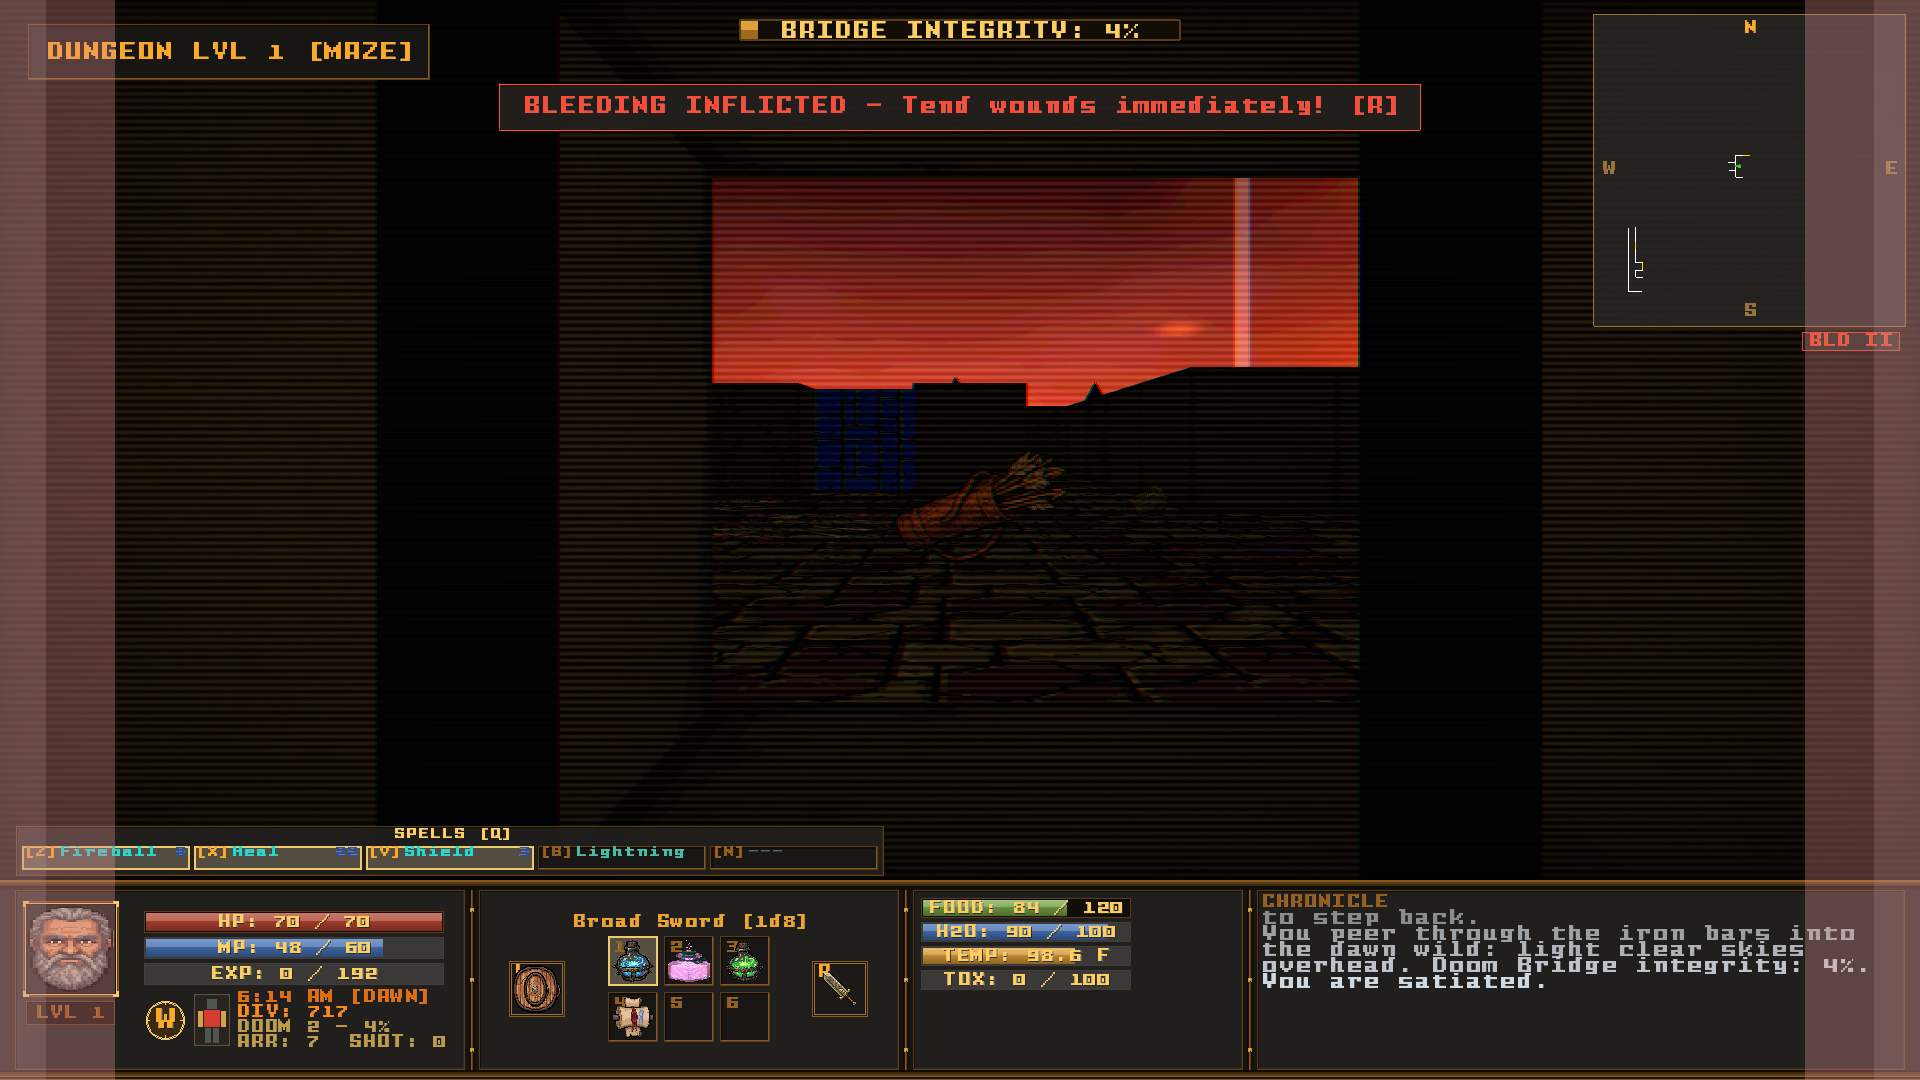
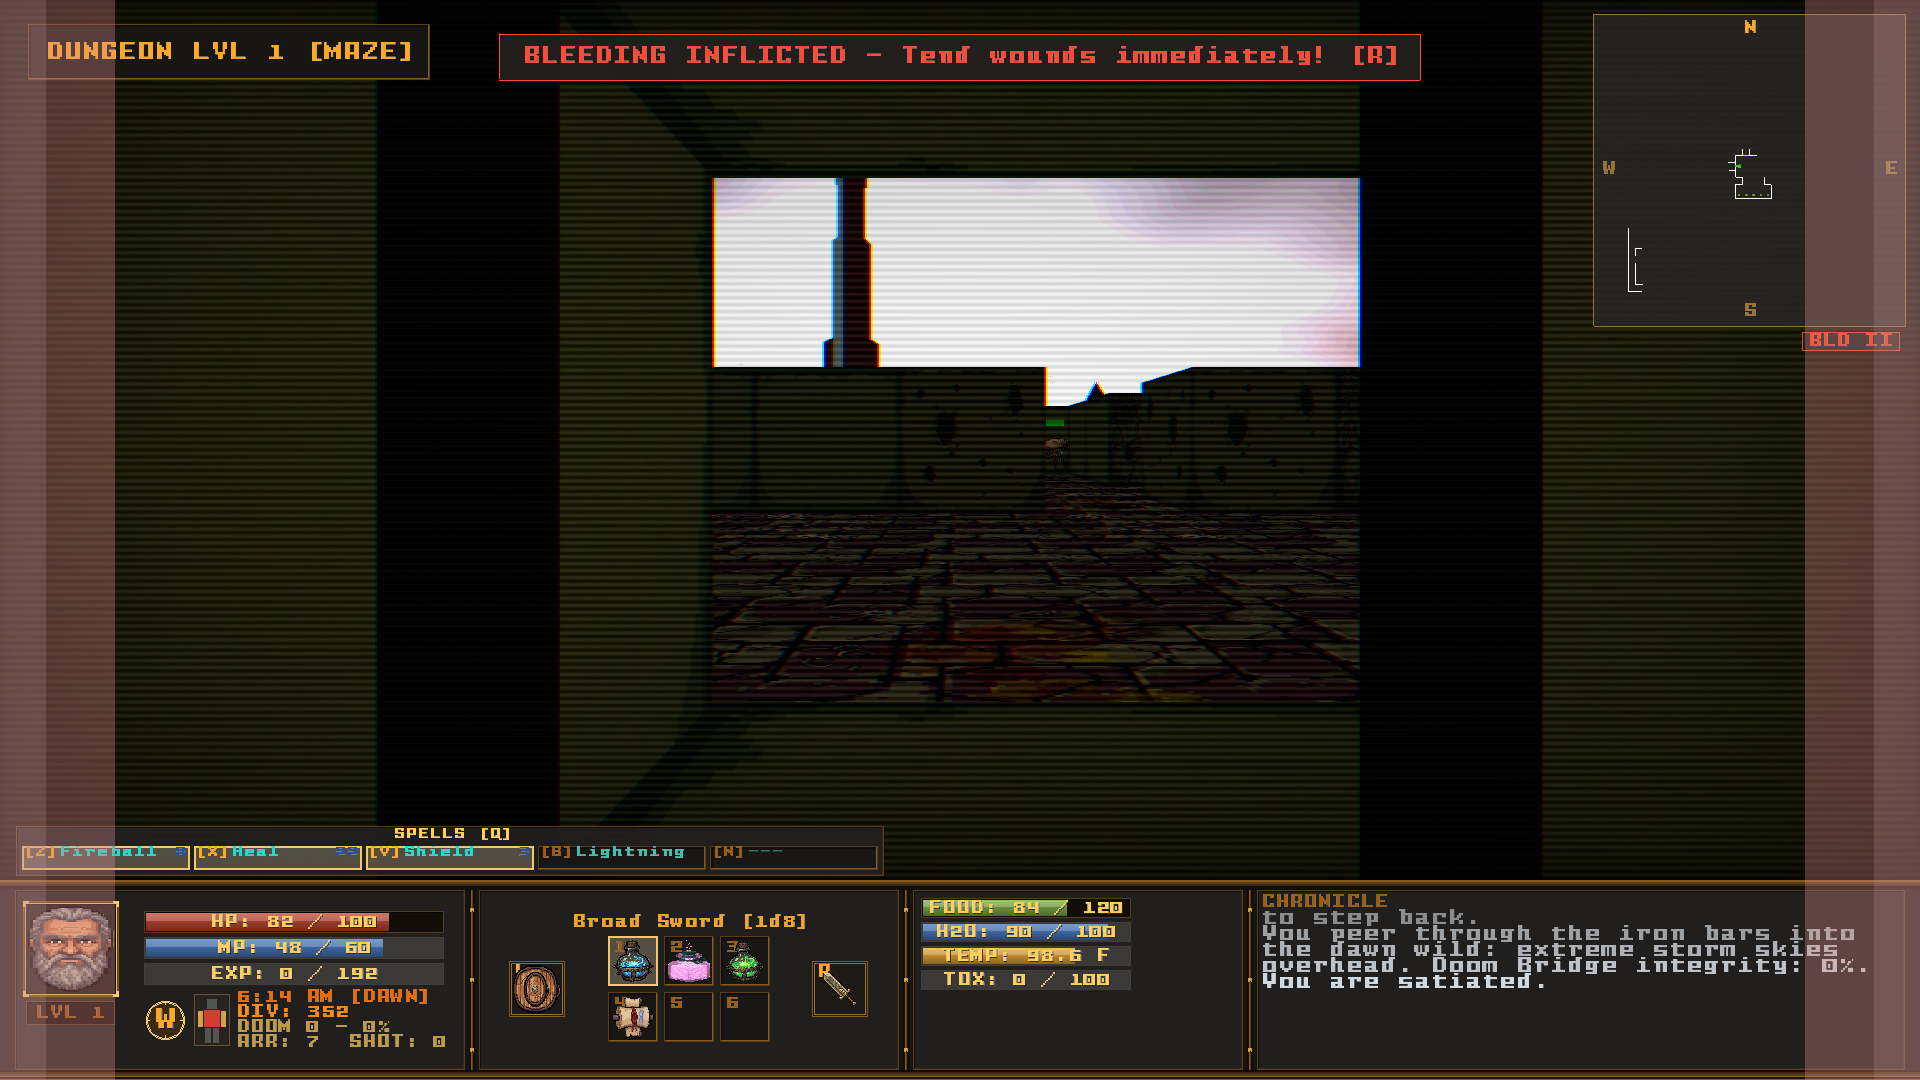
fix(sky): the sky turns with the world camera, so the castle stays put
The sky had its own camera, faced along the player's heading with a level
horizon. Looking about at a barred window (and the death cinematic's fall)
turned the world camera but not the sky's, so Castle Tarmin and the
horizon rode along on the screen. The world renderer now hands the sky its
camera's position, direction and up vector each frame; captures that fill
the sky state by hand keep the level view.

A new capture (24f) looks up and to the left from the window.

diff --git a/core/src/main/java/com/bpm/minotaur/rendering/Skybox3DRenderer.java b/core/src/main/java/com/bpm/minotaur/rendering/Skybox3DRenderer.java
@@ -291,10 +291,24 @@ public class Skybox3DRenderer {
                 ? worldManager.getCurrentPlayerChunkId()
                 : new com.badlogic.gdx.math.GridPoint2(0, 0);
 
-        worldSkyState.camX = player.getPosition().x * PARALLAX_SCALE;
-        worldSkyState.camZ = -player.getPosition().y * PARALLAX_SCALE;
-        worldSkyState.forwardX = player.getDirectionVector().x;
-        worldSkyState.forwardZ = -player.getDirectionVector().y; // Maze Y -> World -Z
+        if (viewAligned) {
+            // The world camera looks where the player does not always: up at a window, down in
+            // a fall. The sky must turn with it, or the castle rides along on the screen.
+            worldSkyState.camX = viewPosition.x * PARALLAX_SCALE;
+            worldSkyState.camZ = viewPosition.z * PARALLAX_SCALE;
+            worldSkyState.forwardX = viewDirection.x;
+            worldSkyState.forwardY = viewDirection.y;
+            worldSkyState.forwardZ = viewDirection.z;
+            worldSkyState.up.set(viewUp);
+            viewAligned = false;
+        } else {
+            worldSkyState.camX = player.getPosition().x * PARALLAX_SCALE;
+            worldSkyState.camZ = -player.getPosition().y * PARALLAX_SCALE;
+            worldSkyState.forwardX = player.getDirectionVector().x;
+            worldSkyState.forwardY = 0f;
+            worldSkyState.forwardZ = -player.getDirectionVector().y; // Maze Y -> World -Z
+            worldSkyState.up.set(Vector3.Y);
+        }
         worldSkyState.dayNight = (worldManager != null) ? worldManager.getDayNightManager() : null;
         worldSkyState.weather = (weather != null) ? weather.getCurrentWeather() : WeatherType.CLEAR;
         worldSkyState.cloudCover = (weather != null) ? weather.getCloudCover() : 0f;
@@ -350,7 +364,11 @@ public class Skybox3DRenderer {
         public float camX;
         public float camZ;
         public float forwardX;
+        /** Up or down component of the view; 0 keeps the horizon level. */
+        public float forwardY;
         public float forwardZ;
+        /** The view's up vector, so the sky rolls with the world camera. */
+        public final Vector3 up = new Vector3(Vector3.Y);
         public DayNightManager dayNight;
         public WeatherType weather = WeatherType.CLEAR;
         public float cloudCover;
@@ -431,8 +449,8 @@ public class Skybox3DRenderer {
 
         // 1. Camera Alignment (Direction tracks player view continuous vector)
         camera.position.set(camX, 0.5f, camZ);
-        camera.direction.set(fwdX, 0f, fwdZ).nor();
-        camera.up.set(Vector3.Y);
+        camera.direction.set(fwdX, state.forwardY, fwdZ).nor();
+        camera.up.set(state.up);
         camera.update();
 
         // Dome tracks camera position so player is always at center of celestial hemisphere
@@ -560,6 +578,23 @@ public class Skybox3DRenderer {
                     .rotate(0f, 1f, 0f, yaw + 180f)
                     .scale(1.875f, 1.875f, 1.875f);
         }
+    }
+
+    private boolean viewAligned;
+    private final Vector3 viewPosition = new Vector3();
+    private final Vector3 viewDirection = new Vector3();
+    private final Vector3 viewUp = new Vector3();
+
+    /**
+     * Points the sky's camera the way the world camera points, for the next render. Without
+     * it the sky faces the player's heading with a level horizon, which is wrong whenever the
+     * world camera looks elsewhere.
+     */
+    public void alignTo(Vector3 position, Vector3 direction, Vector3 up) {
+        viewPosition.set(position);
+        viewDirection.set(direction);
+        viewUp.set(up);
+        viewAligned = true;
     }
 
     /**

diff --git a/core/src/main/java/com/bpm/minotaur/screens/UXScreenCaptureScreen.java b/core/src/main/java/com/bpm/minotaur/screens/UXScreenCaptureScreen.java
@@ -427,6 +427,21 @@ public class UXScreenCaptureScreen extends BaseScreen {
                     () -> Gdx.input.getInputProcessor().keyDown(com.badlogic.gdx.Input.Keys.ESCAPE));
             Gdx.input.getInputProcessor().keyDown(com.badlogic.gdx.Input.Keys.E);
         }));
+        // Looking up and to the left from the bars: the sky and the castle must turn with the view.
+        tasks.add(new CaptureTask("24f_window_look_up", "Looking up from the shelter window", () -> {
+            for (java.util.Map.Entry<com.badlogic.gdx.math.GridPoint2, Object> e : sharedMaze.getGameObjects().entrySet()) {
+                if (e.getValue() instanceof com.bpm.minotaur.gamedata.Window) {
+                    com.badlogic.gdx.math.GridPoint2 w = e.getKey();
+                    sharedPlayer.setPosition(w.x + 1.5f, w.y + 0.5f);
+                    sharedPlayer.setFacing(com.bpm.minotaur.gamedata.Direction.WEST);
+                    break;
+                }
+            }
+            setSubScreen(sharedGameScreen,
+                    () -> Gdx.input.getInputProcessor().keyDown(com.badlogic.gdx.Input.Keys.ESCAPE));
+            Gdx.input.getInputProcessor().keyDown(com.badlogic.gdx.Input.Keys.E);
+            sharedGameScreen.turnWindowLook(25f, 30f);
+        }));
         // The same window seen from the room, a step back from it.
         tasks.add(new CaptureTask("24e_window_room", "The shelter window from inside", () -> {
             for (java.util.Map.Entry<com.badlogic.gdx.math.GridPoint2, Object> e : sharedMaze.getGameObjects().entrySet()) {

diff --git a/core/src/main/java/com/bpm/minotaur/rendering/World3DRenderer.java b/core/src/main/java/com/bpm/minotaur/rendering/World3DRenderer.java
@@ -671,6 +671,7 @@ public class World3DRenderer implements Disposable {
         boolean canRender3DSky = (currentLevel == 1) && (!isIndoors || isInsideHome);
         if (canRender3DSky && skybox3DRenderer != null && skybox3DRenderer.isInitialized()) {
             skybox3DRenderer.setInsideHome(isInsideHome);
+            skybox3DRenderer.alignTo(camera.position, camera.direction, camera.up);
             skybox3DRenderer.render(null, player, viewport, worldManager, DebugManager.getInstance().getRenderMode());
             // Clear depth buffer so the skybox & horizon landmarks remain purely background
             // and all maze geometry (walls, floors, ceilings, doors) renders OVER the skybox.

diff --git a/core/src/main/java/com/bpm/minotaur/screens/GameScreen.java b/core/src/main/java/com/bpm/minotaur/screens/GameScreen.java
@@ -4092,6 +4092,11 @@ public class GameScreen extends BaseScreen {
         return windowLook != null;
     }
 
+    /** Turns the head at the window, as the mouse would; for captures. No-op when not looking. */
+    public void turnWindowLook(float yawDegrees, float pitchDegrees) {
+        if (windowLook != null) windowLook.turn(yawDegrees, pitchDegrees);
+    }
+
     private void startWindowLook(GridPoint2 windowTile) {
         windowLook = new com.bpm.minotaur.rendering.WindowLook(windowTile, player.getFacing());
         world3DRenderer.setWindowLook(windowLook);
